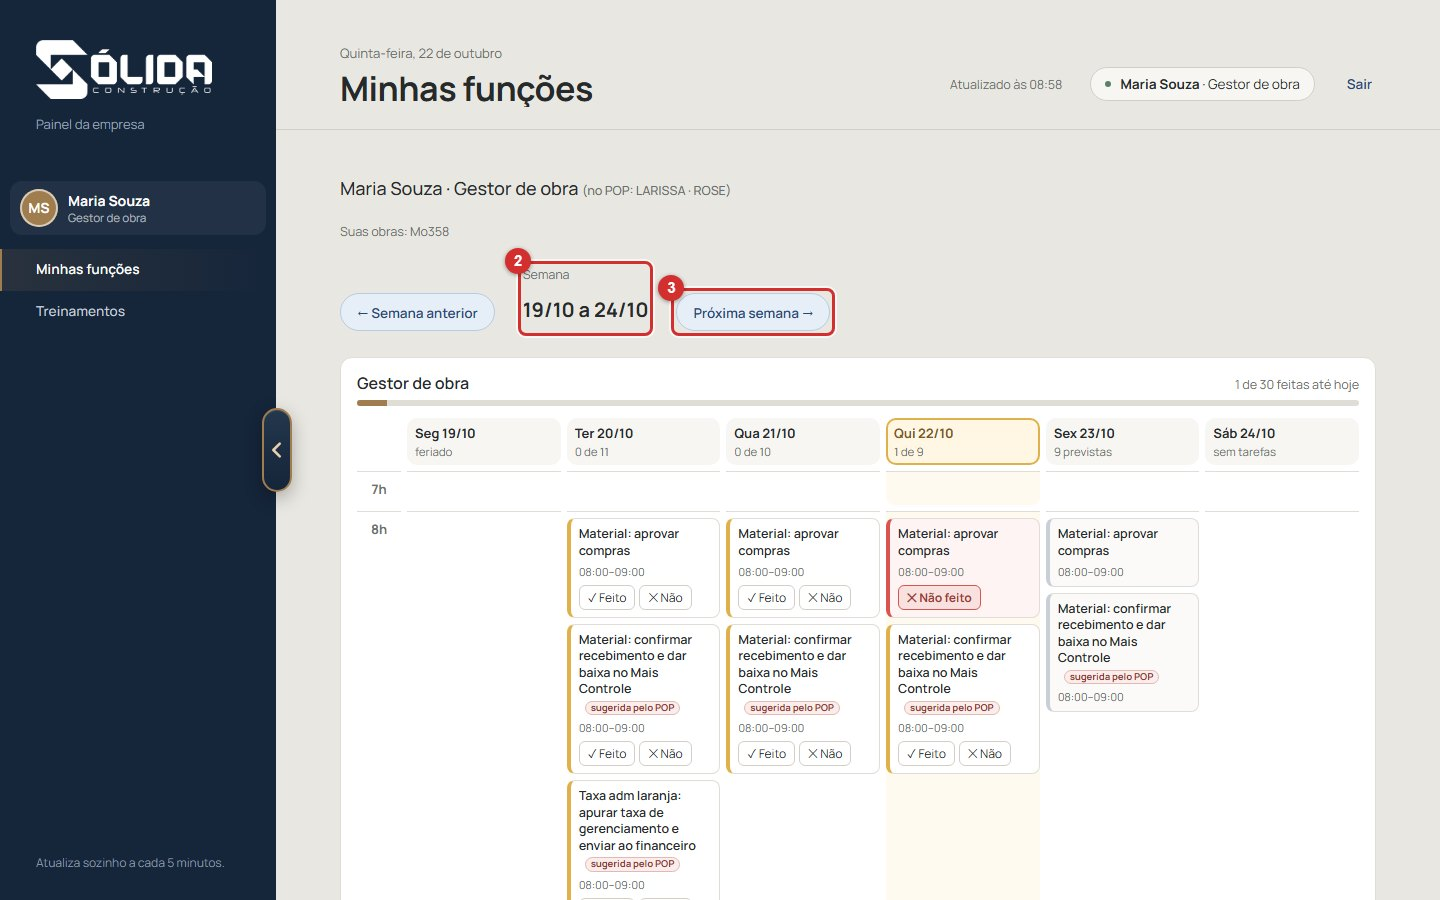
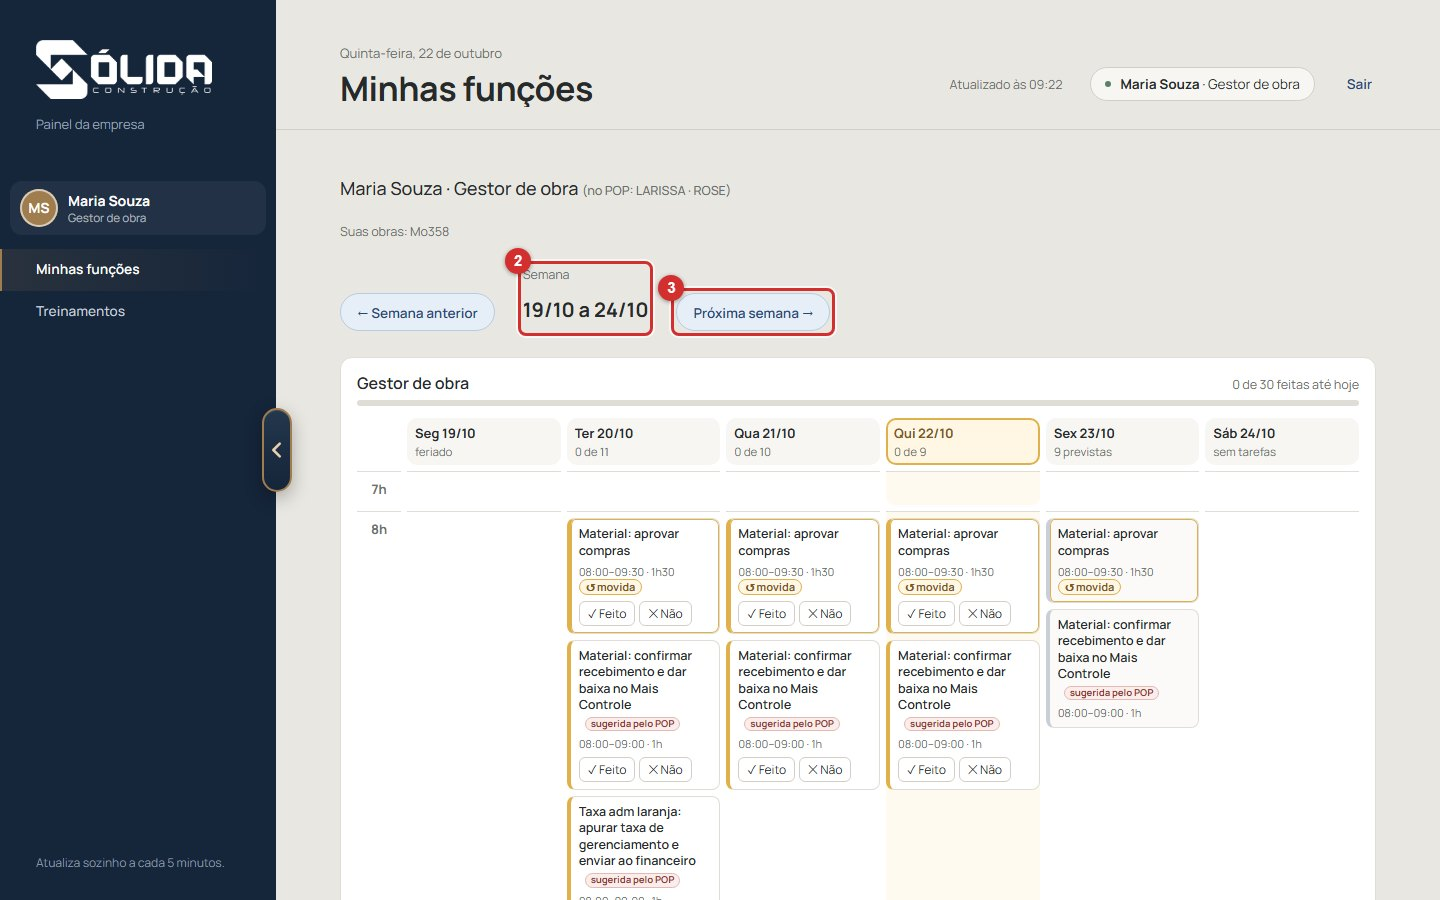
Minhas funcoes: caixinha para mudar a duracao da tarefa (volta); remove o bloco das semanas anteriores; mover so dentro do proprio dia; treinamento com o passo da duracao; gerador de prints nao grava marcacoes no servidor

Changed region(s): [[0.375, 0.56, 0.8438, 1.0], [0.625, 0.4978, 0.6562, 0.5289], [0.25, 0.4356, 0.2812, 0.4667]]

diff --git a/app/js/telas/meudia.js b/app/js/telas/meudia.js
@@ -103,7 +103,9 @@ function caixaTarefa(t, data, estado, hoje, prova, rotuloDia = '', opc = {}) {
   const meta = [rotuloDia, opc.mover ? '' : t.hora].filter(Boolean).join(' · ');
   // opc.mover: o cartão pode ser arrastado para outro dia ou horário (grade por hora); opc.mudou: já foi movido do horário do quadro
   if (opc.mover) {
-    return html`<div class="fn-caixa fn-${cls} fn-movivel ${opc.mudou ? 'fn-mudou' : ''}" draggable="true" data-mover="${t.id}|${data}" title="${infoTarefa(t)} — arraste para mudar o dia ou o horário">
+    // a altura mínima cresce com o tempo que a tarefa ocupa no dia (30 min = baixa; 3 h = alta)
+    const alt = opc.dur ? Math.round((opc.dur / 30) * 26) : 0;
+    return html`<div class="fn-caixa fn-${cls} fn-movivel ${opc.mudou ? 'fn-mudou' : ''}" ${alt ? html.seguro(`style="min-height:${alt}px"`) : ''} draggable="true" data-mover="${t.id}|${data}" title="${infoTarefa(t)} — clique para mudar a duração; arraste para outra hora do dia">
     <div class="fn-nome">${textoTarefa(t)}</div>
     ${meta || opc.mudou ? html`<div class="fn-meta">${meta}${opc.mudou ? html` <button type="button" class="fn-volta" data-volta="${t.id}|${data}" title="Voltar ao dia e horário do quadro">↺ movida</button>` : ''}</div>` : ''}
     ${acoes ? html`<div class="fn-acoes">${acoes}</div>` : ''}
@@ -179,7 +181,7 @@ function funcoesSemana(ref, CFG) {
   // horário escolhido pela pessoa: vale para a tarefa em TODOS os dias e semanas, só para ela (não muda sozinho)
   const fixos = lerHorariosFixos(idPessoa());
   const horarios = {};
-  for (const d of dias) { horarios[d] = {}; for (const [tid, v] of Object.entries(fixos)) horarios[d][tid] = { ini: v.ini }; }
+  for (const d of dias) { horarios[d] = {}; for (const [tid, v] of Object.entries(fixos)) horarios[d][tid] = { ...v }; }
   const todos = [];
   for (const d of dias) for (const t of doDia(d)) todos.push(efetivo(t, d, horarios, dias));
   const colunas = dias.map((c) => { const l = lados(todos.filter((e) => e.dia === c)); return { c, l, fe: l.filter((e) => feita(e.t, e.d)).length }; });
@@ -190,7 +192,7 @@ function funcoesSemana(ref, CFG) {
 
   // Vista em lista (padrão, 21/10): um cartão por tarefa, com o texto inteiro e os botões ✓ Feito / ✕ Não feito na própria tarefa.
   // A vista "Por horário" (quadro com horas) continua disponível para quem quer arrastar e mudar horários.
-  const dispo = (e) => hhmm(e.ini) + '–' + hhmm(e.ini + e.dur);
+  const dispo = (e) => `${hhmm(e.ini)}–${hhmm(e.ini + e.dur)} · ${durTxt(e.dur)}`;
   const vistaLista = html`<div class="fl-lista">${colunas.map(({ c, l, fe }, i) => html`<div class="fl-col ${c === hoje ? 'hoje' : ''}">
       <div class="fq-cab ${c === hoje ? 'hoje' : ''}"><b>${DIA_CURTO[i]} ${c.slice(8, 10)}/${c.slice(5, 7)}</b><small>${feriado(c) ? 'feriado' : l.length ? (c > hoje ? `${l.length} previstas` : `${fe} de ${l.length} feitas`) : 'sem tarefas'}</small></div>
       ${[...l].sort((a, b) => a.ini - b.ini).map((e) => caixaTarefa(e.t, e.d, estadoDe(e.t, e.d), hoje, null, dispo(e)))}
@@ -203,27 +205,18 @@ function funcoesSemana(ref, CFG) {
   const vistaHoras = html`<div class="fh-grade">
     <div class="fh-canto"></div>
     ${colunas.map(({ c, l, fe }, i) => html`<div class="fq-cab fh-dia ${c === hoje ? 'hoje' : ''}"><b>${DIA_CURTO[i]} ${c.slice(8, 10)}/${c.slice(5, 7)}</b><small>${feriado(c) ? 'feriado' : l.length ? (c > hoje ? `${l.length} previstas` : `${fe} de ${l.length}`) : 'sem tarefas'}</small></div>`)}
-    ${horasComTarefa.map((h) => html`<div class="fh-hora"><b>${h}h</b></div>${colunas.map(({ c, l }) => html`<div class="fh-cel ${c === hoje ? 'hoje' : ''}" data-cel-dia="${c}" data-cel-hora="${h}">${l.filter((e) => Math.floor(e.ini / 60) === h).sort((a, b) => a.ini - b.ini).map((e) => caixaTarefa(e.t, e.d, estadoDe(e.t, e.d), hoje, null, dispo(e), { mover: true, mudou: e.mudou }))}</div>`)}`)}
+    ${horasComTarefa.map((h) => html`<div class="fh-hora"><b>${h}h</b></div>${colunas.map(({ c, l }) => html`<div class="fh-cel ${c === hoje ? 'hoje' : ''}" data-cel-dia="${c}" data-cel-hora="${h}">${l.filter((e) => Math.floor(e.ini / 60) === h).sort((a, b) => a.ini - b.ini).map((e) => caixaTarefa(e.t, e.d, estadoDe(e.t, e.d), hoje, null, dispo(e), { mover: true, mudou: e.mudou, dur: e.dur }))}</div>`)}`)}
   </div>
-  <p class="legenda-semana">Quer mudar o horário de uma tarefa? Segure o cartão e arraste para outra hora do mesmo dia (solte na metade de cima da hora para hora cheia, ou na de baixo para "e meia"). O novo horário vale para todas as semanas e é só seu. "↺ movida" volta ao horário do quadro.</p>`;
+  <p class="legenda-semana">Para mudar o horário de uma tarefa, segure o cartão e arraste para outra hora do mesmo dia (solte na metade de cima da hora para hora cheia, ou na de baixo para "e meia"). Para mudar quanto tempo ela ocupa no dia, clique na tarefa. O que você ajustar vale para todas as semanas e é só seu. "↺ movida" volta ao quadro original.</p>`;
   const botoesVista = html`<div class="fl-vista" role="group" aria-label="Como ver as tarefas"><span class="pequeno">Ver:</span>
     <button type="button" class="botao ${vista === 'lista' ? 'on' : ''}" data-vista-fn="lista">Lista por dia</button>
     <button type="button" class="botao ${vista === 'quadro' ? 'on' : ''}" data-vista-fn="quadro">Por horário</button></div>`;
 
   let pop = '';
-  if (popup && vista === 'quadro') {
+  if (popup) {   // janelinha ao clicar na tarefa: mudar quanto tempo ela ocupa no dia, marcar feito/não feito
     const e = todos.find((x) => x.t.id === popup.id && x.d === popup.d);
     if (e) pop = janela(e, dias, hoje, estadoDe(e.t, e.d), provaDoDia(e.t, e.d)); else popup = null;
   }
-
-  // ficaram sem marcar em semanas anteriores (até 4 semanas, desde que a pessoa começou a usar)
-  const desde = primeiroDia(idPessoa(), hoje);
-  const atrasadas = [];
-  for (let d = somarDias(ini, -1); d >= desde && d >= somarDias(ini, -28); d = somarDias(d, -1)) {
-    if (d > hoje) continue;
-    for (const t of doDia(d)) if (!estadoDe(t, d) && !provaDoDia(t, d)) atrasadas.push({ t, d });
-  }
-  const nomeDia = (d) => `${DIA_CURTO[(diaSemana(d) + 6) % 7] || ''} ${d.slice(8, 10)}/${d.slice(5, 7)}`;
 
   return html`${nav}
     <section class="fn-painel">
@@ -233,8 +226,6 @@ function funcoesSemana(ref, CFG) {
       ${vista === 'lista' ? html`<div class="fh-larga">${vistaHoras}</div><div class="fh-estreita">${vistaLista}</div>` : html`<div class="fq-quadro"><div class="fq-canto"></div>${cabecas}<div class="fq-horas" style="height:${altTotal}px">${horas}</div>${trilhos}</div>
       <p class="legenda-semana">Arraste um cartão para outro dia ou horário; puxe a borda de baixo para mudar a duração; clique para ver os detalhes. Cartões no mesmo horário ficam lado a lado. O ajuste fica guardado neste navegador.</p>`}
       <p class="legenda-semana"><span class="lg lg-ok"></span> feito <span class="lg lg-abaixo"></span> não feito <span class="lg lg-sem"></span> falta marcar · você mesmo marca cada tarefa: ✓ Feito ou ✕ Não feito · clique numa marcação para desfazer</p>
-      ${atrasadas.length ? html`<h4 class="fn-sub">⚠ Ficaram sem marcar em semanas anteriores <span class="pequeno">${atrasadas.length} ${atrasadas.length > 1 ? 'tarefas' : 'tarefa'} — marque aqui ou em "Semana anterior"</span></h4>
-        <div class="fn-grade">${atrasadas.map(({ t, d }) => caixaTarefa(t, d, undefined, hoje, null, nomeDia(d)))}</div>` : ''}
     </section>
     ${pop}
     ${foraDoQuadro(f.id)}
@@ -264,12 +255,15 @@ export function instalarQuadro(aoMudar) {
     e.preventDefault();
     const r = cel.getBoundingClientRect(); const meia = (e.clientY - r.top) / Math.max(1, r.height) >= 0.5;
     const ini = Number(cel.dataset.celHora) * 60 + (meia ? 30 : 0);
-    fixarHorario(idPessoa(), movendo.id, ini);
+    fixarHorario(idPessoa(), movendo.id, { ini });
     movendo = null; aoMudar();
   });
   document.addEventListener('click', (e) => {
-    const v = e.target.closest && e.target.closest('[data-volta]'); if (!v) return;
-    fixarHorario(idPessoa(), v.dataset.volta.split('|')[0], null); aoMudar();
+    const v = e.target.closest && e.target.closest('[data-volta]');
+    if (v) { fixarHorario(idPessoa(), v.dataset.volta.split('|')[0], null); aoMudar(); return; }
+    // clicar na tarefa (fora dos botões) abre a janelinha com a duração e a situação
+    const c = e.target.closest && e.target.closest('.fn-movivel');
+    if (c && !e.target.closest('button, a')) { const [id, d] = c.dataset.mover.split('|'); popup = { id, d }; aoMudar(); }
   });
 
   let a = null;
@@ -322,15 +316,14 @@ export function instalarQuadro(aoMudar) {
     const [acao, valor] = b.dataset.fn.split('|');
     const pessoa = idPessoa();
     if (acao === 'fechar') popup = null;
-    else if (acao === 'volta') moverHorario(pessoa, popup.d, popup.id, null);
-    else {
+    else if (acao === 'volta') fixarHorario(pessoa, popup.id, null);
+    else if (acao === 'dur') {   // quanto tempo a tarefa ocupa no dia: vale para todas as semanas, só para esta pessoa
       const t = TAREFAS.find((x) => x.id === popup.id);
       const ini = inicioDaSemana(popup.d);
       const dias = [0, 1, 2, 3, 4, 5].map((i) => somarDias(ini, i));
-      const atual = efetivo(t, popup.d, lerHorarios(pessoa), dias);
-      if (acao === 'dia') moverHorario(pessoa, popup.d, popup.id, { dia: valor });
-      else if (acao === 'hora') moverHorario(pessoa, popup.d, popup.id, { ini: atual.ini + Number(valor) });
-      else if (acao === 'dur') moverHorario(pessoa, popup.d, popup.id, { dur: limitar(atual.dur + Number(valor), GRADE.passo, (GRADE.faixas - atual.faixa) * GRADE.passo) });
+      const fx = lerHorariosFixos(pessoa);
+      const atual = efetivo(t, popup.d, { [popup.d]: { [t.id]: fx[t.id] || {} } }, dias);
+      fixarHorario(pessoa, popup.id, { dur: limitar(atual.dur + Number(valor), GRADE.passo, 12 * 60) });
     }
     aoMudar();
   });

diff --git a/app/js/treinamentos-slides.js b/app/js/treinamentos-slides.js
@@ -46,9 +46,12 @@ export const SUBTOPICOS = [
           { imagem: img('func-11-mover'), titulo: 'Mude o horário de uma tarefa', texto: 'Quer fazer uma tarefa em outra hora do dia? Segure o cartão, arraste e solte na hora que quiser, no mesmo dia. O novo horário fica valendo para essa tarefa em todas as semanas, só para você: ninguém mais é afetado e ele não volta sozinho.',
             legenda: ['O cartão que você moveu fica marcado e mostra o novo horário.', '↺ movida: clique para voltar ao horário original do quadro.'],
             dica: 'Solte na metade de cima da hora para hora cheia (ex.: 11h) e na metade de baixo para "e meia" (11h30). Só dá para mover dentro do mesmo dia.' },
+          { imagem: img('func-12-duracao'), titulo: 'Quanto tempo a tarefa ocupa no dia', texto: 'Clique em uma tarefa (no texto do cartão) para abrir uma caixinha. Nela você muda quanto tempo a tarefa ocupa no seu dia e também pode marcar feito ou não feito. O cartão fica mais alto quando a tarefa ocupa mais tempo.',
+            legenda: ['O nome completo da tarefa.', '− 30 min: a tarefa passa a ocupar menos tempo.', '+ 30 min: a tarefa passa a ocupar mais tempo.', 'Situação: ✓ Feito ou ✕ Não feito, igual no cartão.'],
+            dica: 'A duração que você escolher vale para essa tarefa em todas as semanas e é só sua. Para voltar ao original, use "↺ Voltar ao quadro" na caixinha.' },
           { imagem: img('func-07-semanas'), titulo: 'Semanas anteriores e próximas', texto: 'Esqueceu de marcar alguma coisa? Volte à semana anterior e marque lá. Você também vê a semana que vem.',
             legenda: ['Semana anterior: volta e permite marcar o que ficou pendente.', 'A semana que você está vendo.', 'Próxima semana: só para consultar.'],
-            dica: 'Tarefas sem marcação das últimas semanas aparecem num aviso abaixo: "Ficaram sem marcar".' },
+            dica: 'Tarefas de semanas passadas que ficaram sem marcação você marca direto na semana anterior.' },
           { imagem: img('func-08-fora'), titulo: 'Tarefas fora do quadro', texto: 'Algumas tarefas não têm dia certo (mensais, quinzenais, ocasionais). Elas ficam numa lista no fim da página, junto com as observações da sua função.',
             legenda: ['Fora do quadro: tarefas mensais e ocasionais e as observações da sua função.'] },
           { imagem: img('func-09-treinamento'), titulo: 'Pronto: é só isso', texto: 'Todo dia, abra Minhas funções e marque ✓ Feito ou ✕ Não feito em cada tarefa. A marcação vale ponto e mostra para a diretoria como a semana está andando.',

diff --git a/app/js/armazenamento.js b/app/js/armazenamento.js
@@ -52,20 +52,22 @@ export function moverHorario(pessoa, data, tarefa, patch) {
 // fixos[pessoa][tarefa] = { ini } (minutos desde 00:00). Fica neste navegador e, na nuvem, na tabela horarios_tarefas (segue a pessoa em outro aparelho).
 const CHAVE_FIXOS = 'solida.horariosFixos';
 export const lerHorariosFixos = (pessoa) => lerJSON(CHAVE_FIXOS, {})[pessoa] || {};
-export function fixarHorario(pessoa, tarefa, ini) {
+// patch = { ini?, dur? } (junta com o que já estava); null volta ao horário e à duração do quadro
+export function fixarHorario(pessoa, tarefa, patch) {
   const tudo = lerJSON(CHAVE_FIXOS, {});
   tudo[pessoa] = tudo[pessoa] || {};
-  if (ini == null) delete tudo[pessoa][tarefa]; else tudo[pessoa][tarefa] = { ini };
+  if (patch == null) delete tudo[pessoa][tarefa]; else tudo[pessoa][tarefa] = { ...(tudo[pessoa][tarefa] || {}), ...patch };
   gravarJSON(CHAVE_FIXOS, tudo);
-  if (NA_NUVEM) (ini == null ? apagarHorarioTarefa(tarefa) : gravarHorarioTarefa(tarefa, ini)).catch(() => { /* fica só neste navegador; sobe na próxima sincronização */ });
+  const v = tudo[pessoa][tarefa];
+  if (NA_NUVEM) (v ? gravarHorarioTarefa(tarefa, v) : apagarHorarioTarefa(tarefa)).catch(() => { /* fica só neste navegador; sobe na próxima sincronização */ });
 }
 // Traz os horários da nuvem; o que só existe neste navegador (movido antes de subir) é enviado.
 export async function sincronizarHorarios(pessoa) {
   if (!NA_NUVEM || !pessoa) return false;
   let linhas; try { linhas = await listarHorariosTarefas(); } catch { return false; }
   const tudo = lerJSON(CHAVE_FIXOS, {}); const locais = tudo[pessoa] || {}; const nuvem = {};
-  for (const l of linhas) nuvem[l.tarefa] = { ini: l.ini };
-  for (const [t, v] of Object.entries(locais)) if (!nuvem[t]) { nuvem[t] = v; gravarHorarioTarefa(t, v.ini).catch(() => {}); }
+  for (const l of linhas) nuvem[l.tarefa] = { ...(l.ini != null ? { ini: l.ini } : {}), ...(l.dur != null ? { dur: l.dur } : {}) };
+  for (const [t, v] of Object.entries(locais)) if (!nuvem[t]) { nuvem[t] = v; gravarHorarioTarefa(t, v).catch(() => {}); }
   tudo[pessoa] = nuvem; gravarJSON(CHAVE_FIXOS, tudo);
   return true;
 }

diff --git a/app/js/nuvem.js b/app/js/nuvem.js
@@ -165,12 +165,12 @@ export async function gravarObraPos(linha) {
 }
 // horário que cada pessoa escolheu para cada tarefa de "Minhas funções" (só ela vê e grava; vale para todas as semanas)
 export async function listarHorariosTarefas() {
-  const { data, error } = await sb.from('horarios_tarefas').select('tarefa, ini');
+  const { data, error } = await sb.from('horarios_tarefas').select('tarefa, ini, dur');
   if (error) throw new Error(error.message);
   return data || [];
 }
-export async function gravarHorarioTarefa(tarefa, ini) {
-  const { error } = await sb.from('horarios_tarefas').upsert({ pessoa: perfil.id, tarefa, ini, atualizado_em: new Date().toISOString() });
+export async function gravarHorarioTarefa(tarefa, v) {   // v = { ini?, dur? }
+  const { error } = await sb.from('horarios_tarefas').upsert({ pessoa: perfil.id, tarefa, ini: v.ini ?? null, dur: v.dur ?? null, atualizado_em: new Date().toISOString() });
   if (error) throw new Error(error.message);
 }
 export async function apagarHorarioTarefa(tarefa) {
